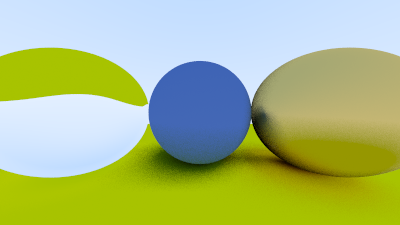
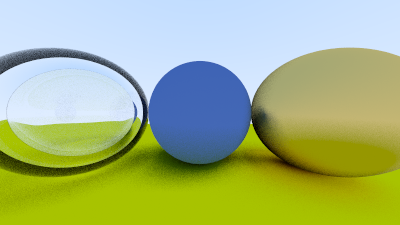
glass bubble (wrong?)

Changed region(s): [[0.0, 0.1867, 0.39, 0.9022]]

diff --git a/src/lib/material.rs b/src/lib/material.rs
@@ -1,4 +1,4 @@
-use crate::lib::{hittable, ray, vector};
+use crate::lib::{hittable, ray, utility, vector};
 
 pub trait Material {
   fn scatter(
@@ -75,9 +75,26 @@ impl Material for Dialetric {
     };
 
     let unit_direction = r_in.dir.unit_vector();
-    let refracted = unit_direction.refract(rec.normal, ri);
+    let cos_theta = (unit_direction * -1.0).dot(&rec.normal).min(1.0);
+    let sin_theta = (1.0 - (cos_theta * cos_theta)).sqrt();
 
-    *scattered = ray::Ray::new(rec.point, refracted);
+    let cannot_refract = ri * sin_theta > 1.0;
+    let direction =
+      if cannot_refract || Dialetric::reflectance(cos_theta, ri) > utility::random_df() {
+        unit_direction.reflect(rec.normal)
+      } else {
+        unit_direction.refract(rec.normal, ri)
+      };
+
+    *scattered = ray::Ray::new(rec.point, direction);
     return true;
+  }
+}
+
+impl Dialetric {
+  pub fn reflectance(cosine: f64, refraction_index: f64) -> f64 {
+    let mut r0 = (1.0 - refraction_index) / (1.0 + refraction_index);
+    r0 = r0 * r0;
+    r0 + (1.0 - r0) * (1.0 - cosine).powi(5)
   }
 }

diff --git a/src/main.rs b/src/main.rs
@@ -18,6 +18,10 @@ fn main() {
     refraction_index: 1.50,
   });
 
+  let material_bubble = rc::Rc::new(material::Dialetric {
+    refraction_index: 1.0 / 1.50,
+  });
+
   let material_right = rc::Rc::new(material::Metal {
     albedo: vector::Vector::new(0.8, 0.6, 0.2),
     fuzz: 1.0,
@@ -42,6 +46,13 @@ fn main() {
     vector::Vector::new(-1.0, 0.0, -1.0),
     0.5,
     material_left.clone(),
+  )));
+
+  // bubble sphere
+  world.add(rc::Rc::new(sphere::Sphere::new(
+    vector::Vector::new(-1.0, 0.0, -1.0),
+    0.4,
+    material_bubble.clone(),
   )));
 
   // right sphere
